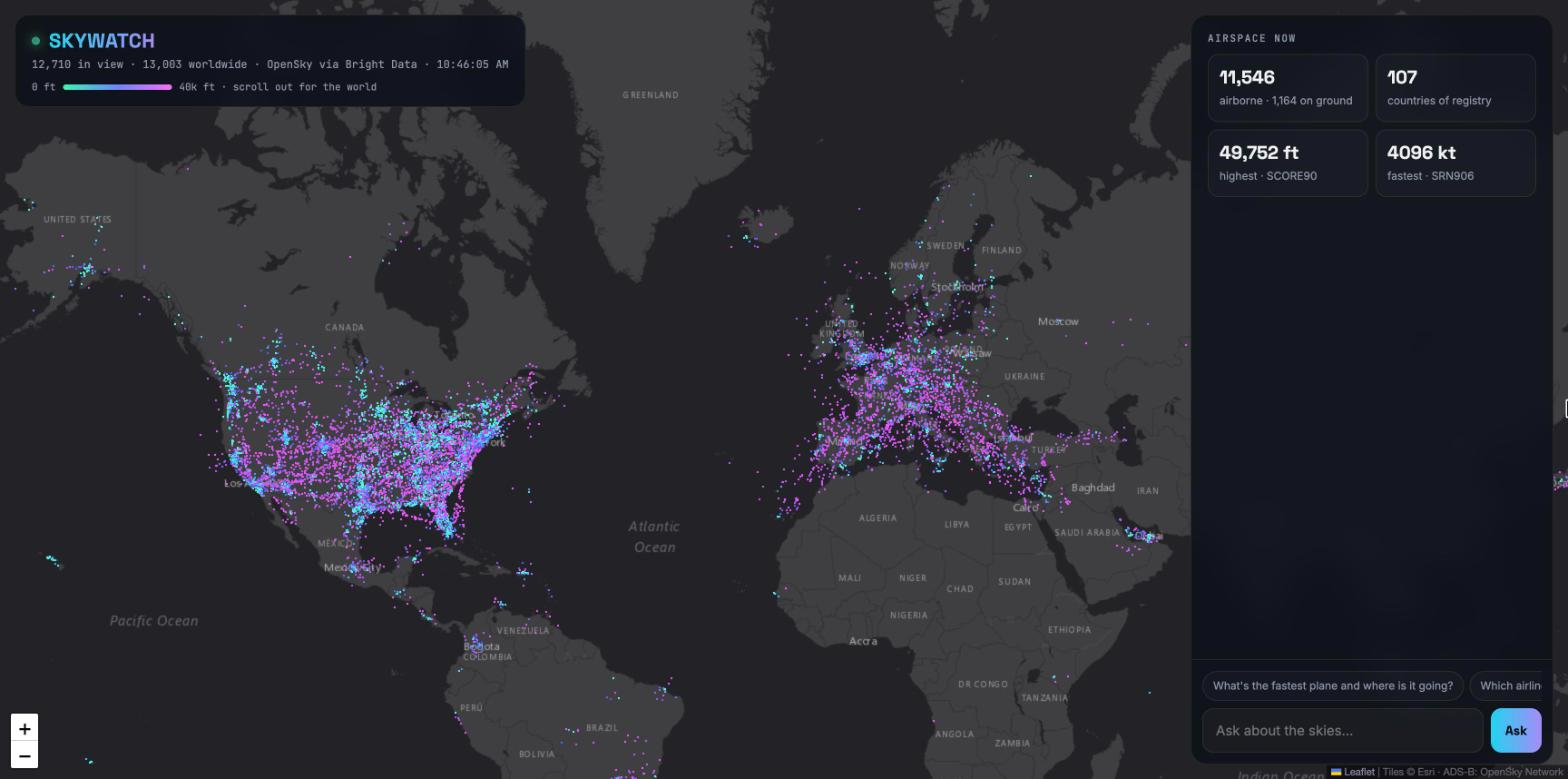
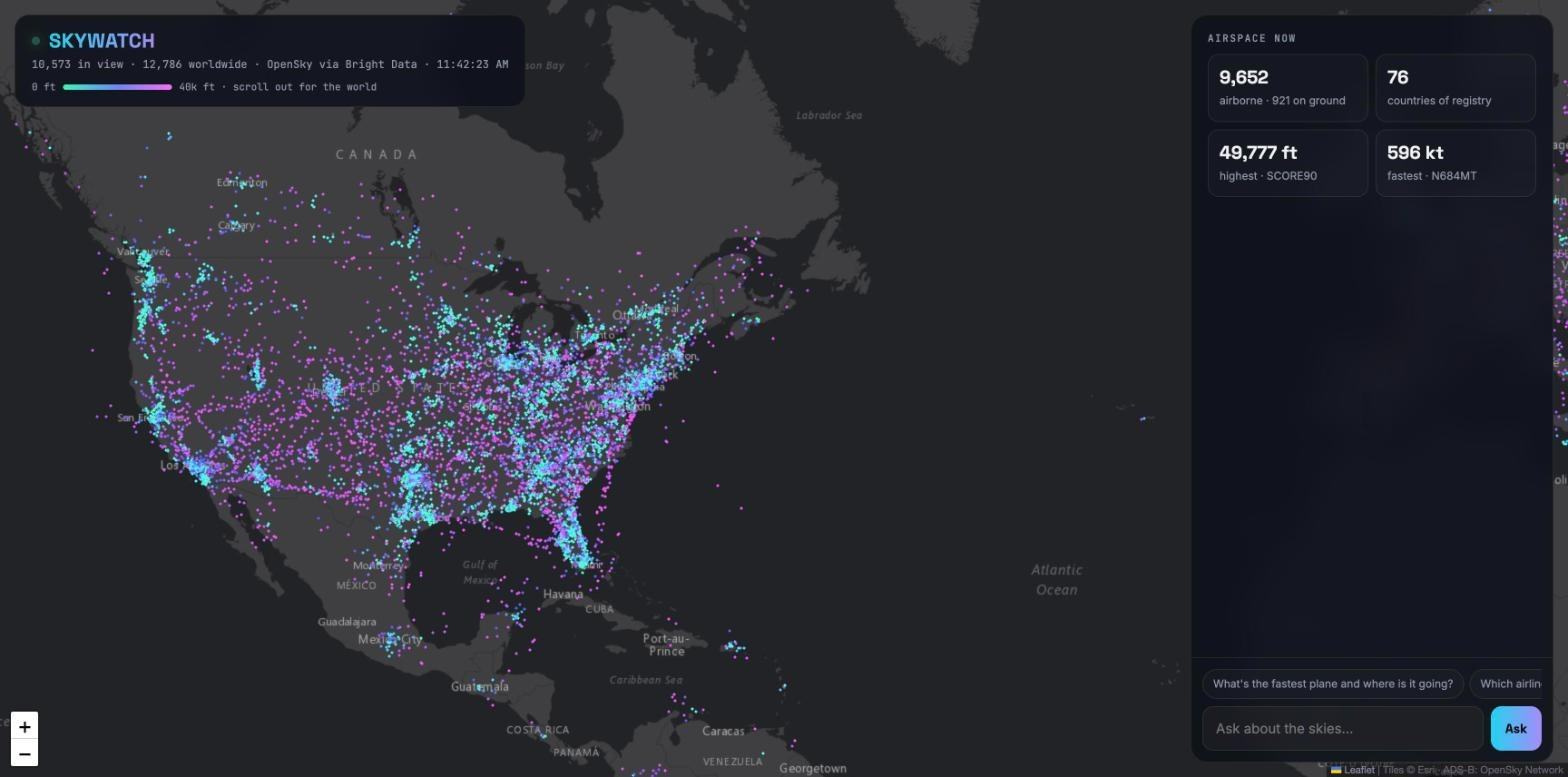
Retake world-view screenshot without bad speed data; remove pointer marks
Claude-Session: https://claude.ai/code/session_01WyW93AkQ1ggXmuLGRPCy5T

diff --git a/README.md b/README.md
@@ -18,7 +18,7 @@ Built at [San Francisco | Claude Code Build Night: Research with Web Data](https
 
 ## Screenshots
 
-**Live world map:** every airborne plane, colored by altitude.
+**Live world map:** every airborne plane over the Americas, colored by altitude.
 
 ![World view](docs/screenshots/world-view.jpg)
 
